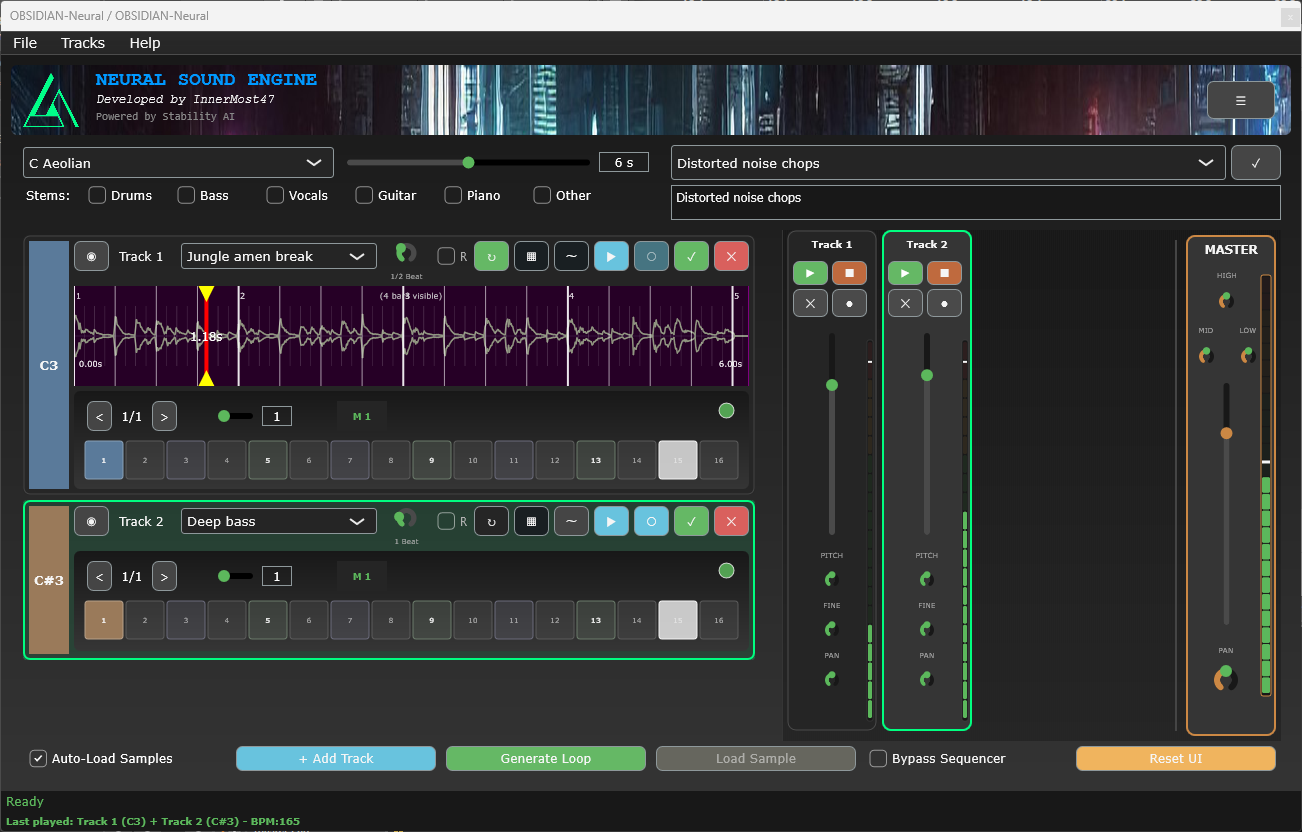
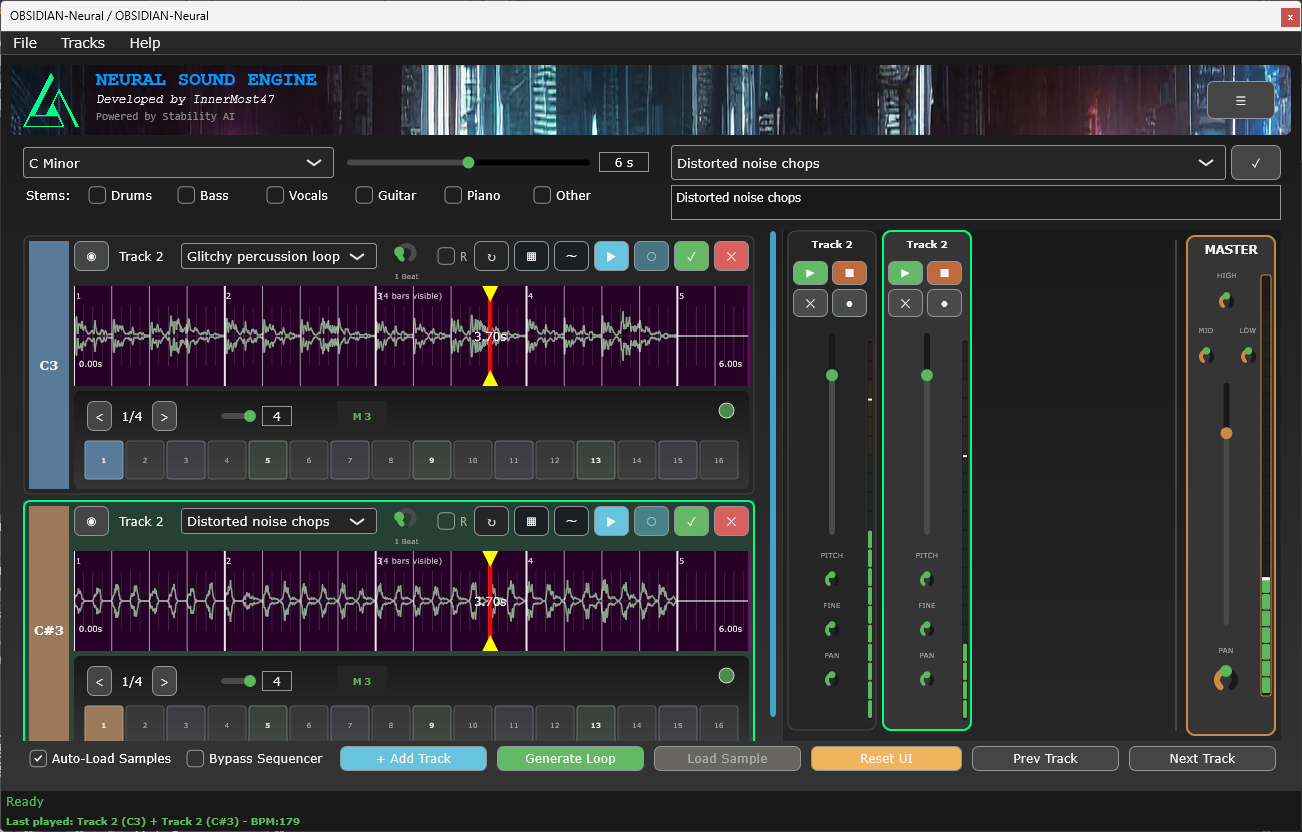
added next track btn + midi learnable global gen

diff --git a/vst/src/PluginEditor.cpp b/vst/src/PluginEditor.cpp
@@ -825,7 +825,7 @@ void DjIaVstEditor::setupUI()
 	savePresetButton.setTooltip("Save current prompt as custom preset");
 	keySelector.setTooltip("Select musical key and mode for generation");
 	durationSlider.setTooltip("Generation duration in seconds (2-10s)");
-	generateButton.setTooltip("Generate audio loop for selected track");
+	generateButton.setTooltip("Generate audio loop for selected track (Right-click for MIDI learn)");
 	configButton.setTooltip("Configure API settings and generation mode");
 	drumsButton.setTooltip("Include drums stem in generation");
 	bassButton.setTooltip("Include bass stem in generation");
@@ -853,8 +853,6 @@ void DjIaVstEditor::addEventListeners()
 	{ onAutoLoadToggled(); };
 	loadSampleButton.onClick = [this]
 	{ onLoadSampleClicked(); };
-	generateButton.onClick = [this]
-	{ onGenerateButtonClicked(); };
 	savePresetButton.onClick = [this]
 	{ onSavePreset(); };
 	promptPresetSelector.onChange = [this]
@@ -1019,6 +1017,26 @@ void DjIaVstEditor::addEventListeners()
 	prevTrackButton.onClick = [this]()
 		{
 			audioProcessor.selectPreviousTrack();
+		};
+
+	generateButton.onMidiLearn = [this]()
+		{
+			audioProcessor.getMidiLearnManager().startLearning(
+				"generate",
+				&audioProcessor,
+				nullptr,
+				"Generate Loop"
+			);
+		};
+
+	generateButton.onMidiRemove = [this]()
+		{
+			audioProcessor.getMidiLearnManager().removeMappingForParameter("generate");
+		};
+
+	generateButton.onClick = [this]()
+		{
+			onGenerateButtonClicked();
 		};
 }
 
@@ -1290,10 +1308,10 @@ void DjIaVstEditor::resized()
 	auto buttonsRow = area.removeFromTop(35);
 	auto buttonWidth = buttonsRow.getWidth() / 8;
 	autoLoadButton.setBounds(buttonsRow.removeFromLeft(buttonWidth).reduced(5));
+	bypassSequencerButton.setBounds(buttonsRow.removeFromLeft(buttonWidth).reduced(5));
 	addTrackButton.setBounds(buttonsRow.removeFromLeft(buttonWidth).reduced(5));
 	generateButton.setBounds(buttonsRow.removeFromLeft(buttonWidth).reduced(5));
 	loadSampleButton.setBounds(buttonsRow.removeFromLeft(buttonWidth).reduced(5));
-	bypassSequencerButton.setBounds(buttonsRow.removeFromLeft(buttonWidth).reduced(5));
 	auto trackNavArea = buttonsRow.removeFromRight(buttonWidth * 2);
 	prevTrackButton.setBounds(trackNavArea.removeFromLeft(buttonWidth).reduced(5));
 	nextTrackButton.setBounds(trackNavArea.reduced(5));
@@ -1371,6 +1389,7 @@ void DjIaVstEditor::stopGenerationUI(const juce::String &trackId, bool success, 
 
 void DjIaVstEditor::onGenerateButtonClicked()
 {
+	audioProcessor.syncSelectedTrackWithGlobalPrompt();
 	audioProcessor.setIsGenerating(true);
 	juce::String serverUrl = audioProcessor.getServerUrl();
 	juce::String apiKey = audioProcessor.getApiKey();

diff --git a/vst/src/PluginProcessor.cpp b/vst/src/PluginProcessor.cpp
@@ -2614,6 +2614,103 @@ void DjIaVstProcessor::selectPreviousTrack()
 	}
 }
 
+void DjIaVstProcessor::triggerGlobalGeneration()
+{
+	if (isGenerating)
+	{
+		juce::MessageManager::callAsync([this]()
+			{
+				if (auto* editor = dynamic_cast<DjIaVstEditor*>(getActiveEditor()))
+				{
+					editor->setStatusWithTimeout("Generation already in progress, please wait", 3000);
+				}
+			});
+		return;
+	}
+
+	if (selectedTrackId.isEmpty())
+	{
+		juce::MessageManager::callAsync([this]()
+			{
+				if (auto* editor = dynamic_cast<DjIaVstEditor*>(getActiveEditor()))
+				{
+					editor->setStatusWithTimeout("No track selected for generation", 3000);
+				}
+			});
+		return;
+	}
+
+	syncSelectedTrackWithGlobalPrompt();
+
+	juce::MessageManager::callAsync([this]()
+		{
+			if (auto* editor = dynamic_cast<DjIaVstEditor*>(getActiveEditor()))
+			{
+				editor->onGenerateButtonClicked();
+			}
+			else
+			{
+				generateLoopFromGlobalSettings();
+			}
+		});
+}
+
+void DjIaVstProcessor::syncSelectedTrackWithGlobalPrompt()
+{
+	TrackData* track = trackManager.getTrack(selectedTrackId);
+	if (!track)
+		return;
+
+	juce::String currentGlobalPrompt = getGlobalPrompt();
+
+	track->selectedPrompt = currentGlobalPrompt;
+
+	juce::MessageManager::callAsync([this, currentGlobalPrompt]()
+		{
+			if (auto* editor = dynamic_cast<DjIaVstEditor*>(getActiveEditor()))
+			{
+				for (auto& trackComp : editor->getTrackComponents())
+				{
+					if (trackComp->getTrackId() == selectedTrackId)
+					{
+						trackComp->updatePromptSelection(currentGlobalPrompt);
+						break;
+					}
+				}
+
+				editor->setStatusWithTimeout("Track prompt synced: " + currentGlobalPrompt.substring(0, 30) + "...", 2000);
+			}
+		});
+}
+
+void DjIaVstProcessor::generateLoopFromGlobalSettings()
+{
+	if (isGenerating)
+		return;
+
+	TrackData* track = trackManager.getTrack(selectedTrackId);
+	if (!track)
+		return;
+
+	syncSelectedTrackWithGlobalPrompt();
+	setIsGenerating(true);
+	setGeneratingTrackId(selectedTrackId);
+
+	juce::Thread::launch([this]()
+		{
+			try
+			{
+				auto request = createGlobalLoopRequest();
+				generateLoop(request, selectedTrackId);
+			}
+			catch (const std::exception& /*e*/)
+			{
+				setIsGenerating(false);
+				setGeneratingTrackId("");
+			}
+		});
+}
+
 void DjIaVstProcessor::removeCustomPrompt(const juce::String &prompt)
 {
 	customPrompts.removeString(prompt);

diff --git a/vst/src/MidiLearnManager.cpp b/vst/src/MidiLearnManager.cpp
@@ -376,6 +376,40 @@ void MidiLearnManager::processMidiMappings(const juce::MidiMessage &message)
 				}
 				continue;
 			}
+			if (mapping.parameterName == "generate")
+			{
+				if (message.isNoteOn() && isBooleanParameter(mapping.parameterName))
+				{
+					if (mapping.processor->getIsGenerating())
+					{
+						statusMessage += " (Generation already in progress)";
+						isWarning = true;
+					}
+					else
+					{
+						mapping.processor->triggerGlobalGeneration();
+						statusMessage += " (Generation triggered)";
+					}
+
+					juce::MessageManager::callAsync([mapping, statusMessage, isWarning]()
+						{
+							if (auto* editor = dynamic_cast<DjIaVstEditor*>(mapping.processor->getActiveEditor()))
+							{
+								editor->statusLabel.setText(statusMessage, juce::dontSendNotification);
+								if (isWarning) {
+									editor->statusLabel.setColour(juce::Label::textColourId, ColourPalette::textWarning);
+								}
+								juce::Timer::callAfterDelay(2000, [mapping]() {
+									if (auto* editor = dynamic_cast<DjIaVstEditor*>(mapping.processor->getActiveEditor())) {
+										editor->statusLabel.setText("Ready", juce::dontSendNotification);
+										editor->statusLabel.setColour(juce::Label::textColourId, ColourPalette::textSuccess);
+									}
+									});
+							}
+						});
+				}
+				continue; 
+			}
 			auto *param = mapping.processor->getParameterTreeState().getParameter(mapping.parameterName);
 			if (param)
 			{
@@ -468,7 +502,8 @@ bool MidiLearnManager::isBooleanParameter(const juce::String& parameterName)
 		parameterName.contains("Generate") ||
 		parameterName.contains("RandomRetrigger") ||
 		parameterName == "nextTrack" ||
-		parameterName == "prevTrack";
+		parameterName == "prevTrack" ||
+		parameterName == "generate"; 
 }
 
 void MidiLearnManager::clearUICallbacks()

diff --git a/vst/src/PluginProcessor.h b/vst/src/PluginProcessor.h
@@ -227,6 +227,8 @@ public:
 	double calculateRetriggerInterval(int intervalValue, double hostBpm) const;
 	void selectNextTrack();
 	void selectPreviousTrack();
+	void triggerGlobalGeneration();
+	void syncSelectedTrackWithGlobalPrompt();
 
 private:
 	DjIaVstEditor* currentEditor = nullptr;
@@ -239,7 +241,6 @@ private:
 
 	std::atomic<float>* nextTrackParam = nullptr;
 	std::atomic<float>* prevTrackParam = nullptr;
-
 	std::atomic<int64_t> internalSampleCounter{ 0 };
 	std::atomic<double> lastHostBpmForQuantization{ 120.0 };
 
@@ -447,6 +448,7 @@ private:
 	void performMigrationIfNeeded();
 	void updateTrackPathsAfterMigration();
 	void checkBeatRepeatWithSampleCounter();
+	void generateLoopFromGlobalSettings();
 
 	JUCE_DECLARE_NON_COPYABLE_WITH_LEAK_DETECTOR(DjIaVstProcessor);
 };

diff --git a/vst/src/PluginEditor.h b/vst/src/PluginEditor.h
@@ -50,6 +50,7 @@ public:
 	juce::StringArray getBuiltInPrompts() const { return promptPresets; }
 	void restoreUICallbacks();
 	void updateSelectedTrack();
+	void onGenerateButtonClicked();
 
 private:
 	DjIaVstProcessor& audioProcessor;
@@ -60,7 +61,6 @@ private:
 
 	void setupUI();
 	void addEventListeners();
-	void onGenerateButtonClicked();
 	void loadPromptPresets();
 	void onPresetSelected();
 	void onSavePreset();
@@ -127,7 +127,7 @@ private:
 	juce::ComboBox styleSelector;
 	juce::Label bpmLabel;
 	juce::ComboBox keySelector;
-	juce::TextButton generateButton;
+	MidiLearnableButton generateButton;
 	juce::TextButton configButton;
 	juce::TextButton resetUIButton;
 	juce::Label serverUrlLabel;

diff --git a/vst/src/TrackComponent.cpp b/vst/src/TrackComponent.cpp
@@ -1107,6 +1107,25 @@ void TrackComponent::toggleSequencerDisplay()
 	resized();
 }
 
+void TrackComponent::updatePromptSelection(const juce::String& promptText)
+{
+	if (!track)
+		return;
+
+	track->selectedPrompt = promptText;
+
+	for (int i = 0; i < promptPresetSelector.getNumItems(); ++i)
+	{
+		if (promptPresetSelector.getItemText(i) == promptText)
+		{
+			promptPresetSelector.setSelectedItemIndex(i, juce::sendNotification);
+			break;
+		}
+	}
+
+	repaint();
+}
+
 void TrackComponent::learn(juce::String param, std::function<void(float)> uiCallback)
 {
 	if (audioProcessor.getActiveEditor() && track && track->slotIndex != -1)

diff --git a/vst/src/TrackComponent.h b/vst/src/TrackComponent.h
@@ -76,6 +76,7 @@ public:
 	void toggleSequencerDisplay();
 	void updatePromptPresets(const juce::StringArray &presets);
 	void setupMidiLearn();
+	void updatePromptSelection(const juce::String& promptText);
 
 	bool isEditingLabel = false;
 	MidiLearnableComboBox promptPresetSelector;
